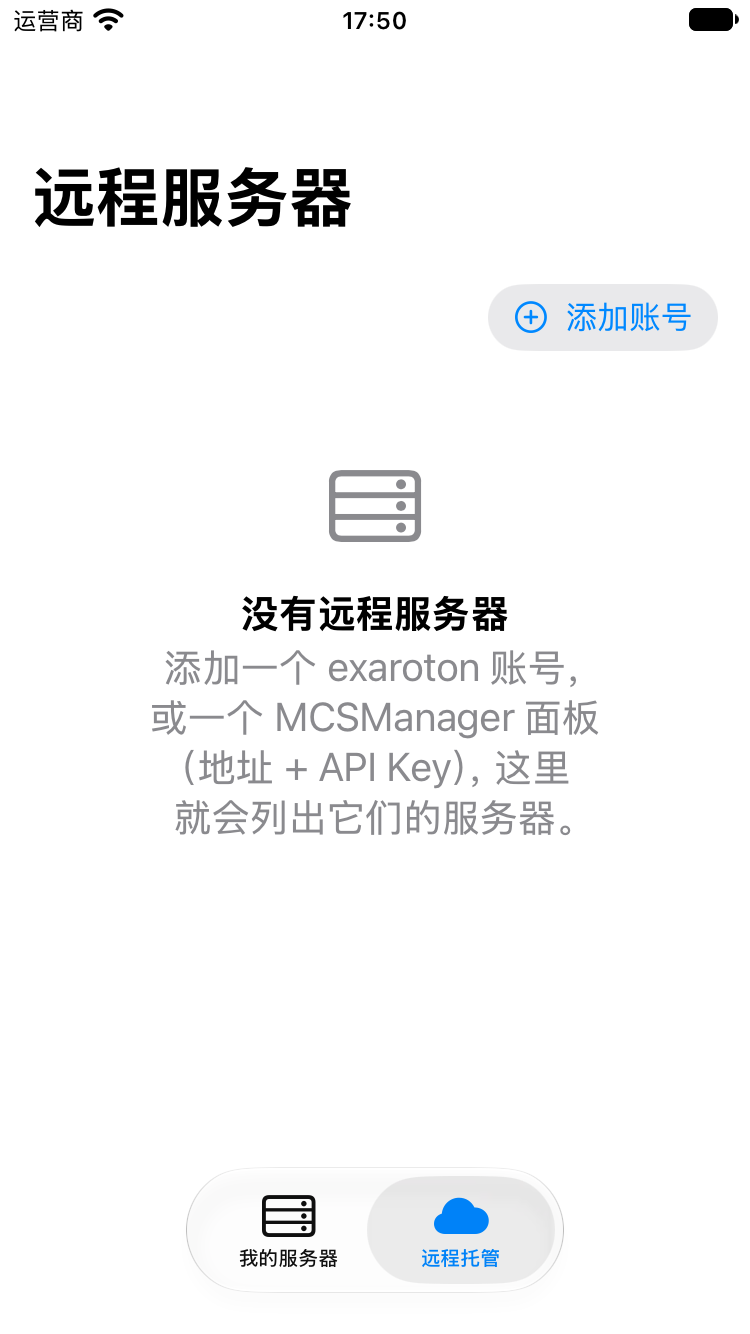
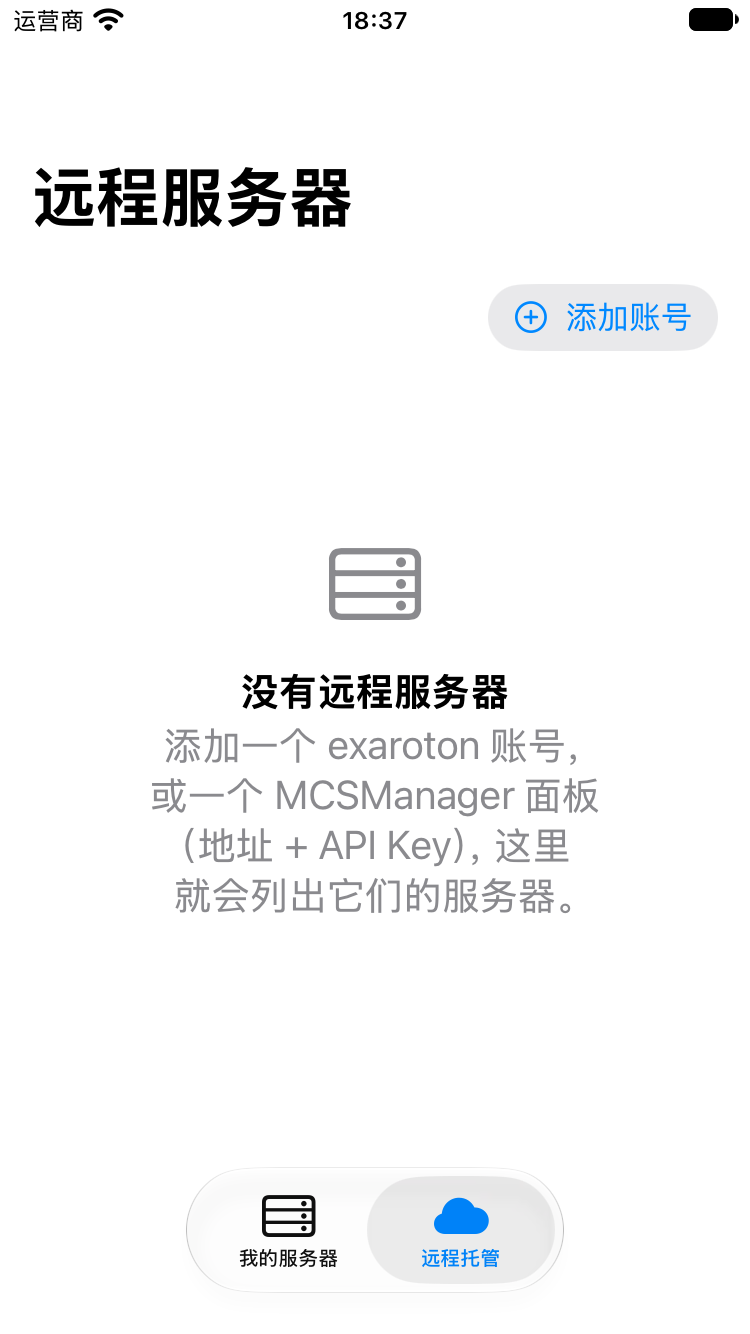
fix(ui): macOS 空态说明改为整页居中（添加入口浮在页顶不占布局）
维护者反馈 macOS 空态页"提示内容视觉上不居中"：上一版把「添加账号」行和说明块放在同一个
VStack 里，说明块实际是在**按钮行以下**的区域居中 —— 900pt 高的窗口里会整体下移约 24pt。

- 说明块改成在整页（分段控件以下）里居中：上下两个 `Spacer` 显式撑开；
- 添加入口用 `.overlay(alignment: .top)` 浮在页顶，不参与布局高度（位置与有数据时一致）；
- 实测（900×620 / 1120×860）：说明块中心与内容区中心相差 ≤7pt（改前约 24pt）。

截图：docs/ui-remote-add-provider-2026-11-06/after-empty-macos.png

Changed region(s): [[0.184, 0.3381, 0.7973, 0.7069], [0.46, 0.0, 0.552, 0.0307]]

diff --git a/OrzMC/Common/ExarotonUI/ExarotonContent.swift b/OrzMC/Common/ExarotonUI/ExarotonContent.swift
@@ -22,20 +22,6 @@ struct ExarotonContent: View {
         accounts.accounts.isEmpty && mcsm.panels.isEmpty
     }
 
-    private var pageEmptyState: some View {
-        EmptyContentView(
-            ContentState(
-                title: String(localized: "No remote servers"),
-                message: String(
-                    localized: "Add an exaroton account or an MCSManager panel (address + API Key) to see its servers here."
-                ),
-                systemImage: "server.rack"
-            )
-        )
-        .frame(maxWidth: .infinity)
-        .padding(.top, OrzMCTheme.Spacing.xl)
-    }
-
     #if DEBUG
     /// **诊断钩子**（仅 DEBUG）：`ORZMC_DEMO_DIAGNOSE=1` 启动后自动连第一台服务器，把 WS/ready/流/控制台
     /// 状态写成 `Documents/orzmc-diagnose.json`。用于真机排查"在线但控制台连不上"——
@@ -86,38 +72,15 @@ struct ExarotonContent: View {
     #endif
     var body: some View {
         NavigationStack {
-            ScrollView {
-                // 分组顺序 = `ProviderKind.allCases`：**exaroton → MCSManager**，固定不变。
-                // 这是维护者拍板的产品口径（按供应商分组、不做筛选器、不调顺序），
-                // 新增供应商时把新分组接在后面，别插到前面去。
-                //
-                // 一个供应商都没配时不渲染任何分组：只给一个空态说明页 + 页顶唯一的添加入口
-                // （以前是两个空卡片，用户会以为其中一个是坏的）。
-                VStack(alignment: .leading, spacing: OrzMCTheme.Spacing.lg) {
-                    HStack {
-                        Spacer(minLength: 0)
-                        RemoteAddProviderMenu { provider in
-                            addRequest = provider
-                        }
-                    }
-
-                    if isEmpty {
-                        pageEmptyState
-                    } else {
-                        // 只有配置了账号的供应商才出现（对应版块与服务器）。
-                        if !accounts.accounts.isEmpty {
-                            ExarotonAccountsSection(addRequest: $addRequest)
-                                .environment(accounts)
-                        }
-                        if !mcsm.panels.isEmpty {
-                            MCSManagerSection(addRequest: $addRequest)
-                                .environment(mcsm)
-                        }
-                    }
+            // 空态是**整页居中**的说明页（不放进 ScrollView）：macOS 窗口又宽又高时，
+            // 放在滚动视图顶部会贴着上半页，看着"没对齐"（2026-11-06 维护者截图）。
+            // 有账号时才需要滚动（分组可能很多）。
+            Group {
+                if isEmpty {
+                    emptyPage
+                } else {
+                    providerPage
                 }
-                .padding(OrzMCTheme.Spacing.lg)
-                .containerRelativeFrame(.horizontal) { width, _ in min(width, 780) }
-                .frame(maxWidth: .infinity)
             }
             .navigationTitle(String(localized: "Remote Servers"))
         }
@@ -129,6 +92,71 @@ struct ExarotonContent: View {
         #if DEBUG
         .task { await runDiagnosticsIfRequested() }
         #endif
+    }
+}
+
+// MARK: - 页面
+
+private extension ExarotonContent {
+
+    /// 页顶唯一的添加入口（两家共用一个）。
+    var addMenu: some View {
+        HStack {
+            Spacer(minLength: 0)
+            RemoteAddProviderMenu { provider in
+                addRequest = provider
+            }
+        }
+    }
+
+    /// 一个供应商都没配：页顶入口 + 居中的空态说明。
+    ///
+    /// 上下各放一个 `Spacer` 显式居中（不依赖 `ContentUnavailableView` 自己的布局）：
+    /// macOS 窗口又宽又高、或被拖动改变大小时，说明块都要保持在**可视区正中**。
+    var emptyPage: some View {
+        // 添加入口用 `overlay` 浮在页顶：它**不占布局高度**，所以空态说明是相对**整页**居中，
+        // 而不是被按钮挤到下半页（2026-11-06 维护者两次反馈"视觉上不居中"）。
+        VStack(spacing: 0) {
+            Spacer(minLength: OrzMCTheme.Spacing.xl)
+            EmptyContentView(
+                ContentState(
+                    title: String(localized: "No remote servers"),
+                    message: String(
+                        localized: "Add an exaroton account or an MCSManager panel (address + API Key) to see its servers here."
+                    ),
+                    systemImage: "server.rack"
+                )
+            )
+            .frame(maxWidth: .infinity)
+            Spacer(minLength: OrzMCTheme.Spacing.xl)
+        }
+        .frame(maxWidth: .infinity, maxHeight: .infinity)
+        .overlay(alignment: .top) {
+            addMenu
+                .padding(.horizontal, OrzMCTheme.Spacing.lg)
+                .padding(.top, OrzMCTheme.Spacing.lg)
+        }
+        .containerRelativeFrame(.horizontal) { width, _ in min(width, 780) }
+    }
+
+    /// 有账号：页顶入口 + 按供应商分组（顺序固定 exaroton → MCSManager，没配的那家整组不出现）。
+    var providerPage: some View {
+        ScrollView {
+            VStack(alignment: .leading, spacing: OrzMCTheme.Spacing.lg) {
+                addMenu
+                if !accounts.accounts.isEmpty {
+                    ExarotonAccountsSection(addRequest: $addRequest)
+                        .environment(accounts)
+                }
+                if !mcsm.panels.isEmpty {
+                    MCSManagerSection(addRequest: $addRequest)
+                        .environment(mcsm)
+                }
+            }
+            .padding(OrzMCTheme.Spacing.lg)
+            .containerRelativeFrame(.horizontal) { width, _ in min(width, 780) }
+            .frame(maxWidth: .infinity)
+        }
     }
 }
 
